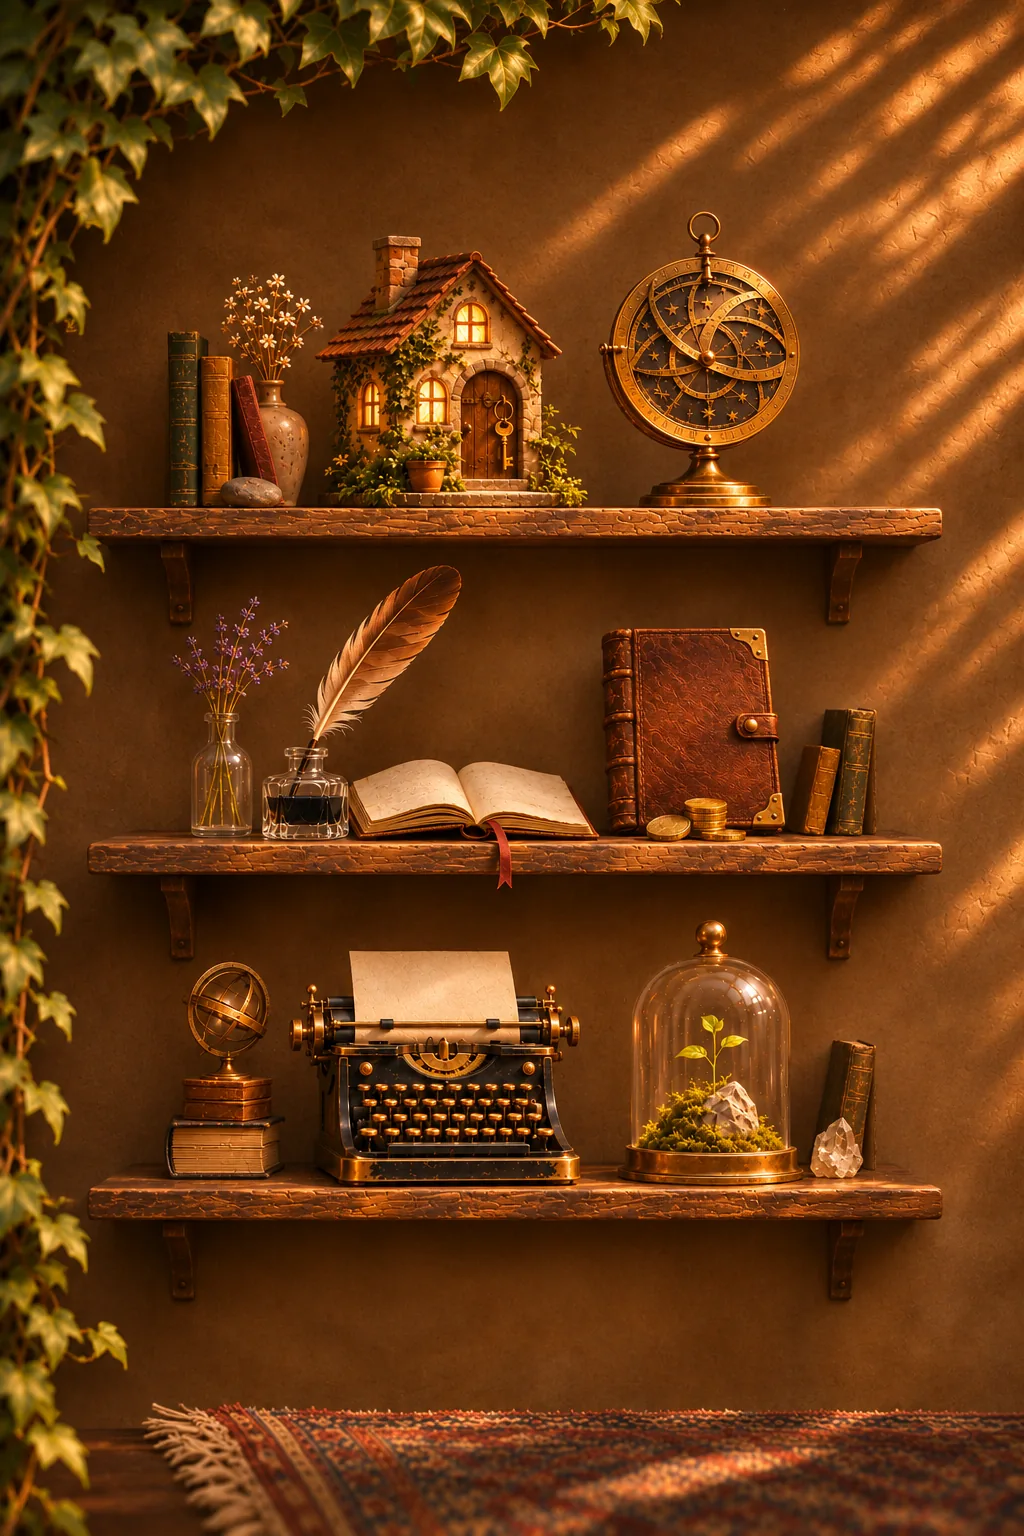
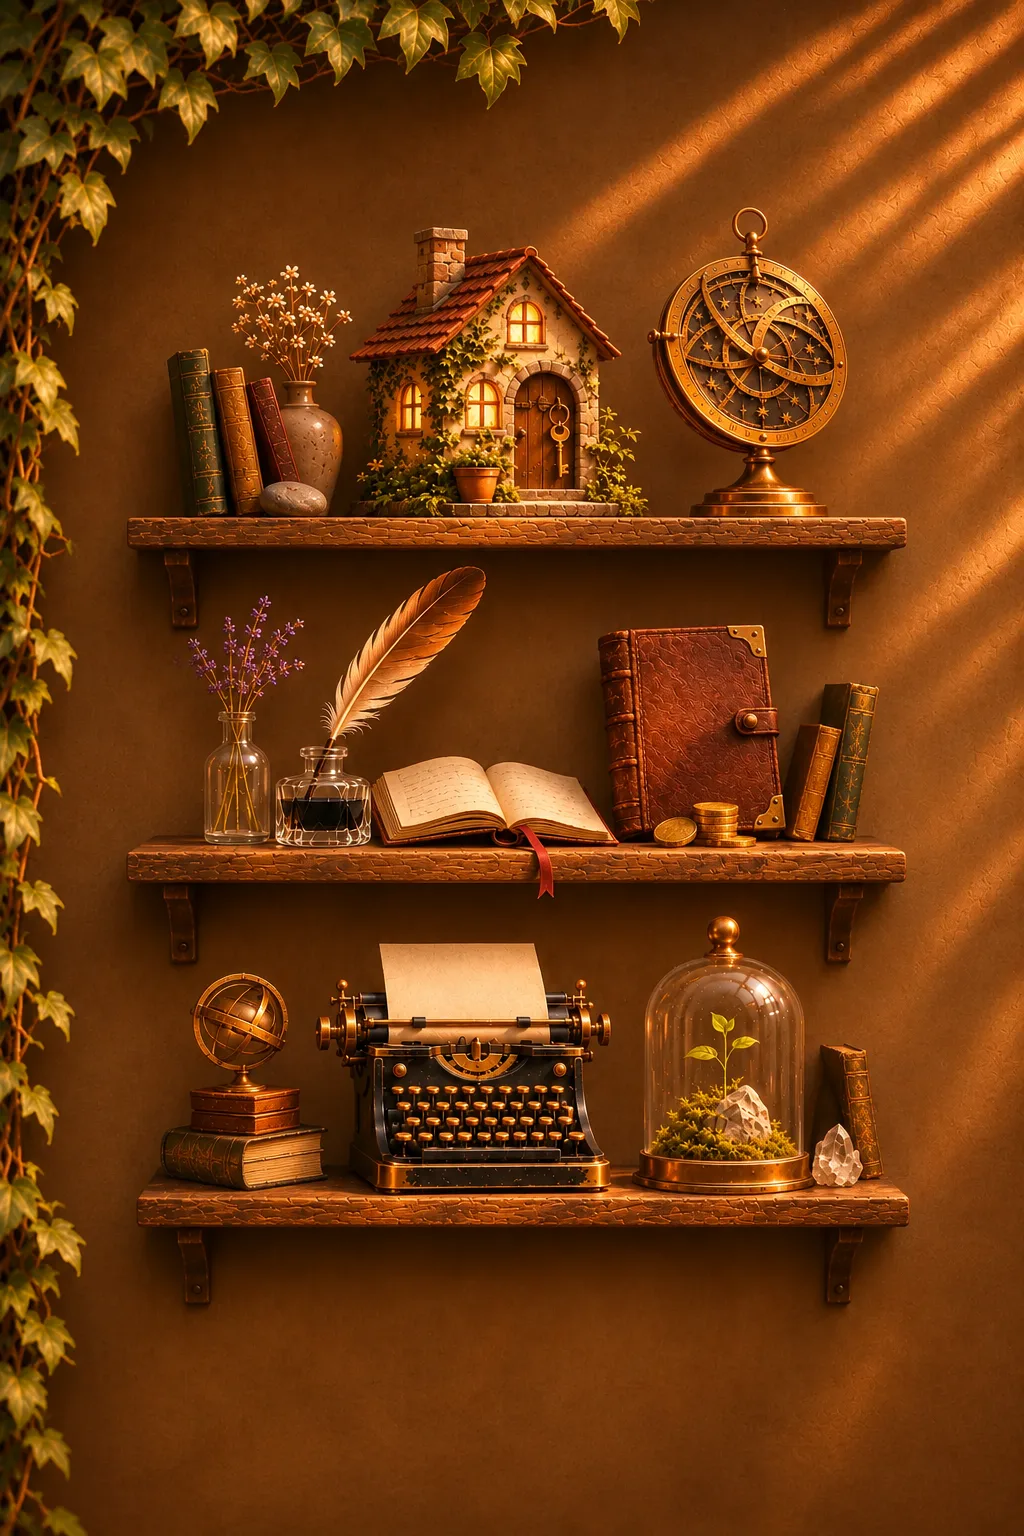
Hub phone: new shelf picture (no rug, shelves hang on the wall, objects placed more naturally) and the whole shelf fits on every iPhone, the wall colour filling below

diff --git a/index.html b/index.html
@@ -4,7 +4,7 @@
 <meta charset="utf-8">
 <meta name="viewport" content="width=device-width, initial-scale=1, viewport-fit=cover">
 <!-- csp-meta: only this site's own scripts run (refresh with ~/bin/csp-meta after editing an inline script) -->
-<meta http-equiv="Content-Security-Policy" content="default-src 'self'; script-src 'self' 'sha256-2IF1OqlYQEsPupU5Mrj3Qv8UhEPG8o6AQ3j7c6CNrDo=' 'sha256-9XtrfY4QuD4SWun7QnWOKo3Maz3q4oibtP6GyOqzfis='; style-src 'self' 'unsafe-inline' https://fonts.googleapis.com; font-src 'self' https://fonts.gstatic.com; img-src 'self' data: blob: https:; media-src 'self' data: blob:; connect-src 'self'; frame-src 'none'; worker-src 'self' blob:; object-src 'none'; base-uri 'self'; form-action 'self'">
+<meta http-equiv="Content-Security-Policy" content="default-src 'self'; script-src 'self' 'sha256-0jhIemepSbwkGKSkfuOQUmGis3lmQAN9aJFknhfqSg4=' 'sha256-2IF1OqlYQEsPupU5Mrj3Qv8UhEPG8o6AQ3j7c6CNrDo='; style-src 'self' 'unsafe-inline' https://fonts.googleapis.com; font-src 'self' https://fonts.gstatic.com; img-src 'self' data: blob: https:; media-src 'self' data: blob:; connect-src 'self'; frame-src 'none'; worker-src 'self' blob:; object-src 'none'; base-uri 'self'; form-action 'self'">
 <title>App do Ivo · Small Apps for a Bigger Life</title>
 <meta name="description" content="Small apps by Ivo Lopes, each one an object on the shelf: Festa, Astro, Quill, Job, Ledger, and more to come.">
 <meta property="og:title" content="App do Ivo · Small Apps for a Bigger Life">
@@ -22,7 +22,7 @@
 <meta name="theme-color" content="#2b1b0f">
 <meta name="color-scheme" content="light">
 <link rel="preload" as="image" href="img/scene/shelf-desk.webp?v=4" media="(min-width: 721px)">
-<link rel="preload" as="image" href="img/scene/shelf-phone.webp?v=4" media="(max-width: 720px)">
+<link rel="preload" as="image" href="img/scene/shelf-phone.webp?v=5" media="(max-width: 720px)">
 <link rel="preconnect" href="https://fonts.googleapis.com">
 <link rel="preconnect" href="https://fonts.gstatic.com" crossorigin>
 <link href="https://fonts.googleapis.com/css2?family=Cormorant+Garamond:wght@600;700&family=EB+Garamond:wght@400;500&display=swap" rel="stylesheet">
@@ -57,7 +57,13 @@
   .scene { --w: 1536; --h: 1024; --fx: .5; --sw: max(100vw, calc((100lvh + var(--below)) * var(--w) / var(--h)));
     position: absolute; left: clamp(calc(100vw - var(--sw)), calc(50vw - var(--sw) * var(--fx)), 0px); --sh: calc(var(--sw) * var(--h) / var(--w)); --fy: .38; top: calc(160px + clamp(calc(100lvh + var(--below) - var(--sh)), calc((100lvh + var(--below)) / 2 - var(--sh) * var(--fy)), 0px)); z-index: 1; container-type: inline-size;
     width: var(--sw); aspect-ratio: var(--w) / var(--h); }
-  .scene.phone { --fx: .52; --fy: .45; }   /* the phone painting's objects sit a little right of centre */
+  /* Phone (2026-11-05, no rug): the whole shelf stays on screen. The picture is shown a
+     little smaller than "cover" (80% of its width fits the screen), its top at the screen's
+     top; below, it fades into the same dark wall colour, which fills the rest. */
+  .stage:has(.scene.phone) { background: #5d2b07; }
+  .scene.phone { --sw: calc(100vw * 1.25); left: calc(50vw - var(--sw) * .51); top: 160px; }
+  .scene.phone > img { -webkit-mask-image: linear-gradient(to bottom, #000 88%, transparent); mask-image: linear-gradient(to bottom, #000 88%, transparent); }
+  @media (min-aspect-ratio: 3/5) { .scene.phone { --sw: max(100vw, calc((100lvh + var(--below)) * var(--w) / var(--h))); left: clamp(calc(100vw - var(--sw)), calc(50vw - var(--sw) * .51), 0px); } }
   .scene > img { position: absolute; inset: 0; width: 100%; height: 100%; display: block; }
 
   .sr { position: absolute; width: 1px; height: 1px; overflow: hidden; clip-path: inset(50%); white-space: nowrap; }
@@ -121,9 +127,9 @@
     desk: { src: "img/scene/shelf-desk.webp?v=4", w: 1536, h: 1024, apps: {
       festa: [22.1, 9.8, 20.2, 33.2], astro: [45.9, 7.0, 16.3, 36.0], quill: [64.1, 8.8, 27.7, 34.2, 30],
       job: [19.5, 52.7, 27.0, 26.2], ledger: [52.4, 53.5, 16.3, 27.5], soon: [73.6, 50.3, 14.0, 29.0] } },
-    phone: { src: "img/scene/shelf-phone.webp?v=4", w: 1024, h: 1536, apps: {
-      festa: [31.1, 15.3, 26.4, 17.6], astro: [58.4, 13.7, 19.7, 19.2], quill: [25.6, 36.8, 32.8, 17.9, 30],
-      ledger: [58.6, 40.7, 17.6, 14.0], job: [28.3, 61.8, 28.3, 15.3], soon: [60.5, 59.8, 17.6, 17.4] } },
+    phone: { src: "img/scene/shelf-phone.webp?v=5", w: 1024, h: 1536, apps: {
+      festa: [34.2, 14.8, 28.9, 18.7], astro: [63.4, 13.5, 19.5, 20.1], quill: [26.7, 36.8, 33.4, 18.4, 35],
+      ledger: [58.3, 40.5, 18.6, 14.7], job: [30.8, 61.2, 29.0, 16.6], soon: [62.3, 59.5, 17.0, 18.3] } },
   };
   const APPS = [
     { id: "festa", href: "https://festa-demo.appdoivo.com" },
